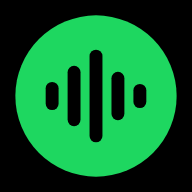
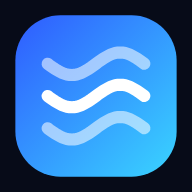
Rename to Dalga and switch to a blue theme
New name, blue gradient accent, Sora headings, rounder panels and new
wave icons across web, Windows and Android. Storage keys and the Android
package id are unchanged so existing playlists and installs carry over.

Claude-Session: https://claude.ai/code/session_01Piz9nuowB971HVbqYAdy2M

diff --git a/web/index.html b/web/index.html
@@ -4,8 +4,8 @@
 <meta charset="utf-8">
 <meta name="viewport" content="width=device-width, initial-scale=1, viewport-fit=cover">
 <meta name="referrer" content="strict-origin-when-cross-origin">
-<title>Beleşify</title>
-<meta name="theme-color" content="#120f17">
+<title>Dalga</title>
+<meta name="theme-color" content="#070b18">
 <meta name="mobile-web-app-capable" content="yes">
 <meta name="apple-mobile-web-app-capable" content="yes">
 <link rel="manifest" href="manifest.webmanifest">
@@ -13,24 +13,25 @@
 <link rel="apple-touch-icon" href="icon-192.png">
 <link rel="preconnect" href="https://fonts.googleapis.com">
 <link rel="preconnect" href="https://fonts.gstatic.com" crossorigin>
-<link rel="stylesheet" href="https://fonts.googleapis.com/css2?family=Figtree:wght@400;500;600;700;800;900&display=swap">
+<link rel="stylesheet" href="https://fonts.googleapis.com/css2?family=Sora:wght@600;700;800&family=Figtree:wght@400;500;600;700;800&display=swap">
 <style>
 /* Layout: three-pane music app (sidebar, library view, queue drawer) over a fixed player bar; one committed dark look */
 :root {
-  --bg: #000000;
-  --panel: #121212;
-  --card: #181818;
-  --raise: #1f1f1f;
-  --hover: #2a2a2a;
-  --line: #2c2c2c;
-  --fg: #ffffff;
-  --mute: #b3b3b3;
-  --accent: #1ed760;
-  --accent-ink: #000000;
-  --danger: #f15e6c;
-  --display: "Figtree", "Segoe UI", system-ui, -apple-system, sans-serif;
+  --bg: #070b18;
+  --panel: #0e1530;
+  --card: #131c3d;
+  --raise: #18234a;
+  --hover: #213060;
+  --line: #24325f;
+  --fg: #eef3ff;
+  --mute: #98a6cf;
+  --accent: #4f8cff;
+  --accent-2: #39d5ff;
+  --accent-ink: #ffffff;
+  --danger: #ff6b81;
+  --display: "Sora", "Segoe UI", system-ui, -apple-system, sans-serif;
   --body: "Figtree", "Segoe UI", system-ui, -apple-system, sans-serif;
-  --r: 10px;
+  --r: 18px;
   color-scheme: dark;
 }
 html, body { height: 100%; }
@@ -49,12 +50,12 @@ svg.i { width: 20px; height: 20px; fill: currentColor; flex: none; }
 /* Sidebar */
 .side { grid-row: 1; background: var(--panel); border-radius: var(--r); display: flex; flex-direction: column; min-height: 0; padding: 18px 12px 12px; gap: 18px; }
 .brand { display: flex; align-items: center; gap: 10px; padding: 0 8px; font-family: var(--display); font-weight: 900; font-size: 23px; letter-spacing: -0.04em; }
-.brand-mark { width: 30px; height: 30px; border-radius: 50%; background: var(--accent); display: grid; place-items: center; color: var(--accent-ink); }
+.brand-mark { width: 30px; height: 30px; border-radius: 10px; background: linear-gradient(135deg, var(--accent), var(--accent-2)); display: grid; place-items: center; color: var(--accent-ink); }
 .brand-mark svg { width: 18px; height: 18px; }
 .nav { display: flex; flex-direction: column; gap: 2px; }
 .nav button { display: flex; align-items: center; gap: 14px; padding: 9px 10px; border-radius: 8px; color: var(--mute); font-weight: 600; font-size: 15px; text-align: left; }
 .nav button:hover { color: var(--fg); background: var(--raise); }
-.nav button.on { color: var(--fg); background: var(--raise); }
+.nav button.on { color: var(--fg); background: linear-gradient(90deg, rgba(79,140,255,.22), transparent); box-shadow: inset 3px 0 0 var(--accent); }
 .nav button.on svg { color: var(--accent); }
 .side-head { display: flex; align-items: center; justify-content: space-between; padding: 0 8px 0 10px; color: var(--mute); font-size: 12px; font-weight: 700; text-transform: uppercase; letter-spacing: 0.08em; }
 .icon-btn { width: 32px; height: 32px; border-radius: 50%; display: grid; place-items: center; color: var(--mute); }
@@ -64,7 +65,7 @@ svg.i { width: 20px; height: 20px; fill: currentColor; flex: none; }
 .pl-list button { width: 100%; display: flex; align-items: center; gap: 10px; padding: 6px 8px; border-radius: 8px; text-align: left; }
 .pl-list button:hover, .pl-list button.on { background: var(--raise); }
 .pl-list img, .pl-list .pl-ico { width: 40px; height: 40px; border-radius: 6px; flex: none; object-fit: cover; }
-.pl-ico { display: grid; place-items: center; background: linear-gradient(135deg, #450af5, #8e8ee5); }
+.pl-ico { display: grid; place-items: center; background: linear-gradient(135deg, #2f5bff, #39d5ff); }
 .pl-meta { min-width: 0; }
 .pl-meta b { display: block; font-weight: 600; white-space: nowrap; overflow: hidden; text-overflow: ellipsis; }
 .pl-meta span { color: var(--mute); font-size: 12px; }
@@ -103,7 +104,7 @@ h2 { font-size: 22px; font-weight: 800; }
 .card:hover .fab, .card:focus-within .fab, .card.playing .fab { opacity: 1; transform: none; }
 .card b { font-weight: 700; white-space: nowrap; overflow: hidden; text-overflow: ellipsis; }
 .card small { color: var(--mute); font-size: 13px; line-height: 1.35; display: -webkit-box; -webkit-line-clamp: 2; -webkit-box-orient: vertical; overflow: hidden; }
-.fab { width: 46px; height: 46px; border-radius: 50%; background: var(--accent); color: var(--accent-ink); display: grid; place-items: center; box-shadow: 0 6px 16px rgba(0,0,0,0.4); }
+.fab { width: 46px; height: 46px; border-radius: 50%; background: linear-gradient(135deg, var(--accent), var(--accent-2)); color: var(--accent-ink); display: grid; place-items: center; box-shadow: 0 6px 16px rgba(0,0,0,0.4); }
 .fab:hover { transform: scale(1.05); filter: brightness(1.05); }
 .fab svg { width: 22px; height: 22px; }
 
@@ -172,10 +173,10 @@ h2 { font-size: 22px; font-weight: 800; }
 .chips { display: flex; gap: 8px; flex-wrap: wrap; }
 .chip { padding: 6px 14px; border-radius: 999px; background: var(--raise); font-weight: 600; font-size: 13px; }
 .chip:hover { background: var(--hover); }
-.chip.on { background: var(--fg); color: var(--bg); }
+.chip.on { background: var(--accent); color: var(--accent-ink); }
 
 .drop { border: 2px dashed var(--line); border-radius: 12px; padding: 22px; text-align: center; color: var(--mute); line-height: 1.6; }
-.drop.over { border-color: var(--accent); color: var(--fg); background: rgba(30,215,96,0.08); }
+.drop.over { border-color: var(--accent); color: var(--fg); background: rgba(79,140,255,0.1); }
 .drop label { color: var(--accent); font-weight: 700; cursor: pointer; text-decoration: underline; text-underline-offset: 3px; }
 
 /* Queue drawer */
@@ -208,14 +209,14 @@ h2 { font-size: 22px; font-weight: 800; }
 .btns .icon-btn { position: relative; }
 .btns .icon-btn.on::after { content: ""; position: absolute; bottom: 1px; left: 50%; width: 4px; height: 4px; margin-left: -2px; border-radius: 50%; background: var(--accent); }
 .rep1 { position: absolute; top: 3px; right: 3px; font-size: 9px; font-weight: 800; color: var(--accent); }
-.play { width: 40px; height: 40px; border-radius: 50%; background: var(--fg); color: var(--bg); display: grid; place-items: center; }
+.play { width: 44px; height: 44px; border-radius: 50%; background: linear-gradient(135deg, var(--accent), var(--accent-2)); color: #fff; box-shadow: 0 6px 18px rgba(79,140,255,.35); display: grid; place-items: center; }
 .play:hover { transform: scale(1.05); }
 .seek { display: flex; align-items: center; gap: 10px; width: 100%; max-width: 600px; color: var(--mute); font-size: 12px; font-variant-numeric: tabular-nums; }
 .seek span { width: 38px; text-align: center; flex: none; }
 .right { display: flex; align-items: center; justify-content: flex-end; gap: 6px; }
 .vol { width: 110px; }
-input[type=range] { -webkit-appearance: none; appearance: none; height: 4px; border-radius: 4px; background: linear-gradient(to right, var(--fg) var(--p, 0%), #4a4156 var(--p, 0%)); cursor: pointer; flex: 1; min-width: 0; margin: 0; }
-input[type=range]:hover { background: linear-gradient(to right, var(--accent) var(--p, 0%), #4a4156 var(--p, 0%)); }
+input[type=range] { -webkit-appearance: none; appearance: none; height: 4px; border-radius: 4px; background: linear-gradient(to right, var(--fg) var(--p, 0%), #2a3866 var(--p, 0%)); cursor: pointer; flex: 1; min-width: 0; margin: 0; }
+input[type=range]:hover { background: linear-gradient(to right, var(--accent) var(--p, 0%), #2a3866 var(--p, 0%)); }
 input[type=range]::-webkit-slider-thumb { -webkit-appearance: none; width: 12px; height: 12px; border-radius: 50%; background: var(--fg); opacity: 0; }
 input[type=range]:hover::-webkit-slider-thumb, input[type=range]:focus-visible::-webkit-slider-thumb { opacity: 1; }
 input[type=range]::-moz-range-thumb { width: 12px; height: 12px; border: 0; border-radius: 50%; background: var(--fg); }
@@ -239,9 +240,9 @@ input[type=range]::-moz-range-thumb { width: 12px; height: 12px; border: 0; bord
 .modal input { background: var(--hover); border: 1px solid var(--line); border-radius: 6px; padding: 10px 12px; outline: none; }
 .modal input:focus { border-color: var(--fg); }
 .modal .row-btns { display: flex; justify-content: flex-end; gap: 10px; }
-.solid { background: var(--fg); color: var(--bg); border-radius: 999px; padding: 9px 18px; font-weight: 700; }
+.solid { background: var(--accent); color: var(--accent-ink); border-radius: 999px; padding: 9px 18px; font-weight: 700; }
 .solid.danger { background: var(--danger); color: var(--accent-ink); }
-.toast { position: fixed; left: 50%; bottom: calc(110px + env(safe-area-inset-bottom, 0px)); transform: translateX(-50%) translateY(10px); background: #3d6df2; color: #fff; padding: 9px 16px; border-radius: 8px; font-weight: 600; opacity: 0; pointer-events: none; transition: opacity .2s, transform .2s; z-index: 70; max-width: calc(100vw - 32px); text-align: center; }
+.toast { position: fixed; left: 50%; bottom: calc(110px + env(safe-area-inset-bottom, 0px)); transform: translateX(-50%) translateY(10px); background: var(--raise); border: 1px solid var(--accent); color: #fff; padding: 9px 16px; border-radius: 8px; font-weight: 600; opacity: 0; pointer-events: none; transition: opacity .2s, transform .2s; z-index: 70; max-width: calc(100vw - 32px); text-align: center; }
 .toast.show { opacity: 1; transform: translateX(-50%); }
 
 @media (max-width: 1100px) { .tl-head, .row { grid-template-columns: 30px minmax(0, 1fr) 36px 48px 36px; } .tl-head .g, .row .g { display: none; } }
@@ -326,7 +327,7 @@ img { object-fit: cover; }
 
 <div class="app" id="app">
   <aside class="side" aria-label="Kenar çubuğu">
-    <div class="brand"><span class="brand-mark"><svg class="i"><use href="#i-wave"/></svg></span>Beleşify</div>
+    <div class="brand"><span class="brand-mark"><svg class="i"><use href="#i-wave"/></svg></span>Dalga</div>
     <nav class="nav" aria-label="Ana gezinme">
       <button data-go="home"><svg class="i"><use href="#i-home"/></svg>Ana sayfa</button>
       <button data-go="search"><svg class="i"><use href="#i-search"/></svg>Ara</button>
@@ -382,7 +383,7 @@ img { object-fit: cover; }
 
 <script>
 "use strict";
-/* ============ Synth: every Beleşify Stüdyo track is composed and rendered in the browser ============ */
+/* ============ Synth: every Dalga Stüdyo track is composed and rendered in the browser ============ */
 const mulberry32 = a => () => { a |= 0; a = a + 0x6D2B79F5 | 0; let t = Math.imul(a ^ a >>> 15, 1 | a); t = t + Math.imul(t ^ t >>> 7, 61 | t) ^ t; return ((t ^ t >>> 14) >>> 0) / 4294967296; };
 const mtof = m => 440 * Math.pow(2, (m - 69) / 12);
 const SCALES = {
@@ -1050,7 +1051,7 @@ function prev() {
   load(P.ctx[P.order[P.pos]]);
 }
 function toggle() {
-  if (!P.cur) return playContext(STUDIO.map(t => t.id), null, "Beleşify Stüdyo");
+  if (!P.cur) return playContext(STUDIO.map(t => t.id), null, "Dalga Stüdyo");
   if (P.loading) return;
   eng.paused ? eng.play().catch(() => {}) : eng.pause();
 }
@@ -1063,7 +1064,7 @@ function playOrToggle(ids, startId, name) {
 function setSession(t) {
   if (!("mediaSession" in navigator)) return;
   try {
-    navigator.mediaSession.metadata = new MediaMetadata({ title: t.title, artist: t.artist, album: t.kind === "gen" ? "Beleşify Stüdyo" : "Dosyalarım", artwork: [{ src: coverOf(t), sizes: "300x300", type: "image/jpeg" }] });
+    navigator.mediaSession.metadata = new MediaMetadata({ title: t.title, artist: t.artist, album: t.kind === "gen" ? "Dalga Stüdyo" : "Dosyalarım", artwork: [{ src: coverOf(t), sizes: "300x300", type: "image/jpeg" }] });
   } catch (e) {}
 }
 try {
@@ -1132,16 +1133,16 @@ function viewHome() {
   const qt = [
     `<button class="qtile" data-go="liked">${likedThumb()}<span>Beğenilen Şarkılar</span><span class="fab" data-act="play-ctx" data-ids="${S.liked.join(",")}" data-name="Beğenilen Şarkılar" role="button" aria-label="Beğenilenleri çal">${playIcon(P.ctxName === "Beğenilen Şarkılar")}</span></button>`,
     ...S.playlists.slice(0, 3).map(p => `<button class="qtile" data-go="pl:${p.id}">${plThumb(p)}<span>${esc(p.name)}</span><span class="fab" data-act="play-ctx" data-ids="${plIds(p).join(",")}" data-name="pl:${p.id}" role="button" aria-label="${esc(p.name)} çal">${playIcon(P.ctxName === "pl:" + p.id)}</span></button>`),
-    ...STUDIO.slice(0, 5 - Math.min(3, S.playlists.length)).map(t => `<button class="qtile" data-act="play-ctx" data-ids="${studioIds.join(",")}" data-start="${t.id}" data-name="Beleşify Stüdyo"><img src="${coverOf(t)}" alt=""><span>${esc(t.title)}</span><span class="fab" aria-hidden="true">${playIcon(P.cur === t.id && P.ctxName === "Beleşify Stüdyo")}</span></button>`)
+    ...STUDIO.slice(0, 5 - Math.min(3, S.playlists.length)).map(t => `<button class="qtile" data-act="play-ctx" data-ids="${studioIds.join(",")}" data-start="${t.id}" data-name="Dalga Stüdyo"><img src="${coverOf(t)}" alt=""><span>${esc(t.title)}</span><span class="fab" aria-hidden="true">${playIcon(P.cur === t.id && P.ctxName === "Dalga Stüdyo")}</span></button>`)
   ].slice(0, 6);
-  return `<div class="view tinted" style="--tint:#1d4a33">
-    <div><h1>${greeting()}</h1><p class="lede">Abonelik yok. YouTube'daki şarkıları bağlantısını yapıştırarak ekle, kendi müzik dosyalarını bırak ya da tarayıcında bestelenen Beleşify Stüdyo parçalarını dinle.</p></div>
-    ${installEvt ? `<button class="ghost" data-act="install" style="align-self:flex-start">${icon("upload")} Beleşify'ı bu cihaza kur</button>` : ""}
+  return `<div class="view tinted" style="--tint:#163a8a">
+    <div><h1>${greeting()}</h1><p class="lede">Abonelik yok. YouTube'daki şarkıları bağlantısını yapıştırarak ekle, kendi müzik dosyalarını bırak ya da tarayıcında bestelenen Dalga Stüdyo parçalarını dinle.</p></div>
+    ${installEvt ? `<button class="ghost" data-act="install" style="align-self:flex-start">${icon("upload")} Dalga'yı bu cihaza kur</button>` : ""}
     <div class="quick">${qt.join("")}</div>
     <section class="sec"><div class="sec-head"><h2>YouTube'dan</h2><button class="ghost" data-go="yt">Şarkı ekle</button></div>
       <div class="cards">${ytTrackIds().slice(0, 8).map(id => card(tracks.get(id), ytTrackIds(), "yt")).join("")}</div></section>
-    <section class="sec"><div class="sec-head"><h2>Beleşify Stüdyo'dan</h2><p>${STUDIO.length} özgün parça</p></div>
-      <div class="cards">${STUDIO.map(t => card(tracks.get(t.id), studioIds, "Beleşify Stüdyo")).join("")}</div></section>
+    <section class="sec"><div class="sec-head"><h2>Dalga Stüdyo'dan</h2><p>${STUDIO.length} özgün parça</p></div>
+      <div class="cards">${STUDIO.map(t => card(tracks.get(t.id), studioIds, "Dalga Stüdyo")).join("")}</div></section>
     <section class="sec"><div class="sec-head"><h2>Türlere göz at</h2></div>${genreGrid()}</section>
     <section class="sec"><div class="sec-head"><h2>Senin dosyaların</h2>${locals.length ? `<p>${locals.length} şarkı</p>` : ""}</div>
       ${locals.length ? `<div class="cards">${locals.slice(0, 8).map(t => card(t, locals.map(x => x.id), "Dosyalarım")).join("")}</div>` : dropZone()}</section>
@@ -1203,7 +1204,7 @@ function viewLibrary() {
     <h1>Kitaplığın</h1>
     <div class="chips">
       <button class="chip${libTab === "all" ? " on" : ""}" data-lib="all">Tümü · ${all.length}</button>
-      <button class="chip${libTab === "studio" ? " on" : ""}" data-lib="studio">Beleşify Stüdyo · ${STUDIO.length}</button>
+      <button class="chip${libTab === "studio" ? " on" : ""}" data-lib="studio">Dalga Stüdyo · ${STUDIO.length}</button>
       <button class="chip${libTab === "yt" ? " on" : ""}" data-lib="yt">YouTube · ${all.filter(t => t.kind === "yt").length}</button>
       <button class="chip${libTab === "files" ? " on" : ""}" data-lib="files">Dosyalarım · ${locals}</button>
     </div>
@@ -1473,7 +1474,7 @@ vol.addEventListener("input", () => { S.vol = vol.value / 100; eng.muted = false
 if (!/BelesifyApp/.test(navigator.userAgent) && "serviceWorker" in navigator && /^https?:$/.test(location.protocol)) navigator.serviceWorker.register("sw.js").catch(() => {});
 let installEvt = null;
 window.addEventListener("beforeinstallprompt", e => { e.preventDefault(); installEvt = e; $("#installBtn").hidden = false; if (view.name === "home") render(false); });
-window.addEventListener("appinstalled", () => { $("#installBtn").hidden = true; toast("Beleşify kuruldu"); });
+window.addEventListener("appinstalled", () => { $("#installBtn").hidden = true; toast("Dalga kuruldu"); });
 syncVol();
 updatePlayer();
 render();

diff --git a/desktop/main.js b/desktop/main.js
@@ -1,4 +1,4 @@
-// Beleşify desktop: serves the bundled web app from 127.0.0.1 so YouTube's player gets a real http origin.
+// Dalga desktop: serves the bundled web app from 127.0.0.1 so YouTube's player gets a real http origin.
 const { app, BrowserWindow, shell, Menu } = require("electron");
 const http = require("http");
 const fs = require("fs");
@@ -33,7 +33,7 @@ async function start() {
   Menu.setApplicationMenu(null);
   const win = new BrowserWindow({
     width: 1280, height: 820, minWidth: 380, minHeight: 560,
-    backgroundColor: "#000000", title: "Beleşify", autoHideMenuBar: true,
+    backgroundColor: "#070b18", title: "Dalga", autoHideMenuBar: true,
     icon: path.join(ROOT, "icon-512.png"),
     webPreferences: { contextIsolation: true, sandbox: true }
   });

diff --git a/android/app/src/main/java/app/belesify/MainActivity.java b/android/app/src/main/java/app/belesify/MainActivity.java
@@ -27,7 +27,7 @@ public class MainActivity extends Activity {
     protected void onCreate(Bundle state) {
         super.onCreate(state);
         web = new WebView(this);
-        web.setBackgroundColor(0xFF000000);
+        web.setBackgroundColor(0xFF070B18);
         WebSettings s = web.getSettings();
         s.setJavaScriptEnabled(true);
         s.setDomStorageEnabled(true);

diff --git a/README.md b/README.md
@@ -1,10 +1,10 @@
-# Beleşify
+# Dalga
 
-Spotify tarzı, ücretsiz bir müzik çalar. Windows ve Android'de uygulama olarak çalışır.
+Ücretsiz bir müzik çalar. Windows ve Android'de uygulama olarak çalışır.
 
 - **YouTube:** Video ya da oynatma listesi bağlantısını yapıştır, YouTube'un resmi oynatıcısıyla çalsın. Video küçük bir pencerede görünür kalır (YouTube kuralları). Arama için kendi ücretsiz YouTube Data API anahtarını uygulamaya girebilirsin.
 - **Kendi dosyaların:** MP3, M4A, OGG, WAV, FLAC. Dosyalar sadece cihazında kalır.
-- **Beleşify Stüdyo:** Uygulamanın içinde, kodla bestelenen 12 özgün parça (lo-fi, synthwave, house, ambient, chiptune, Hicaz makamı).
+- **Dalga Stüdyo:** Uygulamanın içinde, kodla bestelenen 12 özgün parça (lo-fi, synthwave, house, ambient, chiptune, Hicaz makamı).
 - Çalma listeleri, beğenilenler, sıra, karıştırma, tekrar, arama.
 
 ## İndir
@@ -13,9 +13,9 @@ Spotify tarzı, ücretsiz bir müzik çalar. Windows ve Android'de uygulama olar
 
 | Dosya | Ne işe yarar |
 | --- | --- |
-| `Belesify-Kurulum-x.y.z.exe` | Windows'a kurar, masaüstüne kısayol koyar |
-| `Belesify-Tasinabilir-x.y.z.exe` | Kurmadan açılır |
-| `Belesify.apk` | Android (5.0 ve üstü) |
+| `Dalga-Kurulum-x.y.z.exe` | Windows'a kurar, masaüstüne kısayol koyar |
+| `Dalga-Tasinabilir-x.y.z.exe` | Kurmadan açılır |
+| `Dalga.apk` | Android (5.0 ve üstü) |
 
 Dosyalar imzasız. Windows "bilgisayarınızı korudu" derse **Ek bilgi → Yine de çalıştır**. Android'de APK'yı açarken "bilinmeyen kaynaklardan yükleme" iznini vermen gerekir.
 
@@ -29,7 +29,7 @@ android/   Android uygulaması (WebView). Uygulamayı https://appassets.androidp
 
 ## Derleme
 
-GitHub Actions her `main` push'unda `.exe` ve `.apk` derler (Actions sekmesinde "Artifacts"). Her başarılı derleme dosyaları otomatik olarak yeni bir Release olarak yayınlar (`v1.0.<derleme no>`). İstersen `v` ile başlayan bir etiket de gönderebilirsin.
+GitHub Actions her `main` push'unda `.exe` ve `.apk` derler (Actions sekmesinde "Artifacts"). Her başarılı derleme dosyaları otomatik olarak yeni bir Release olarak yayınlar (`v1.1.<derleme no>`). İstersen `v` ile başlayan bir etiket de gönderebilirsin.
 
 Kendi bilgisayarında:
 
